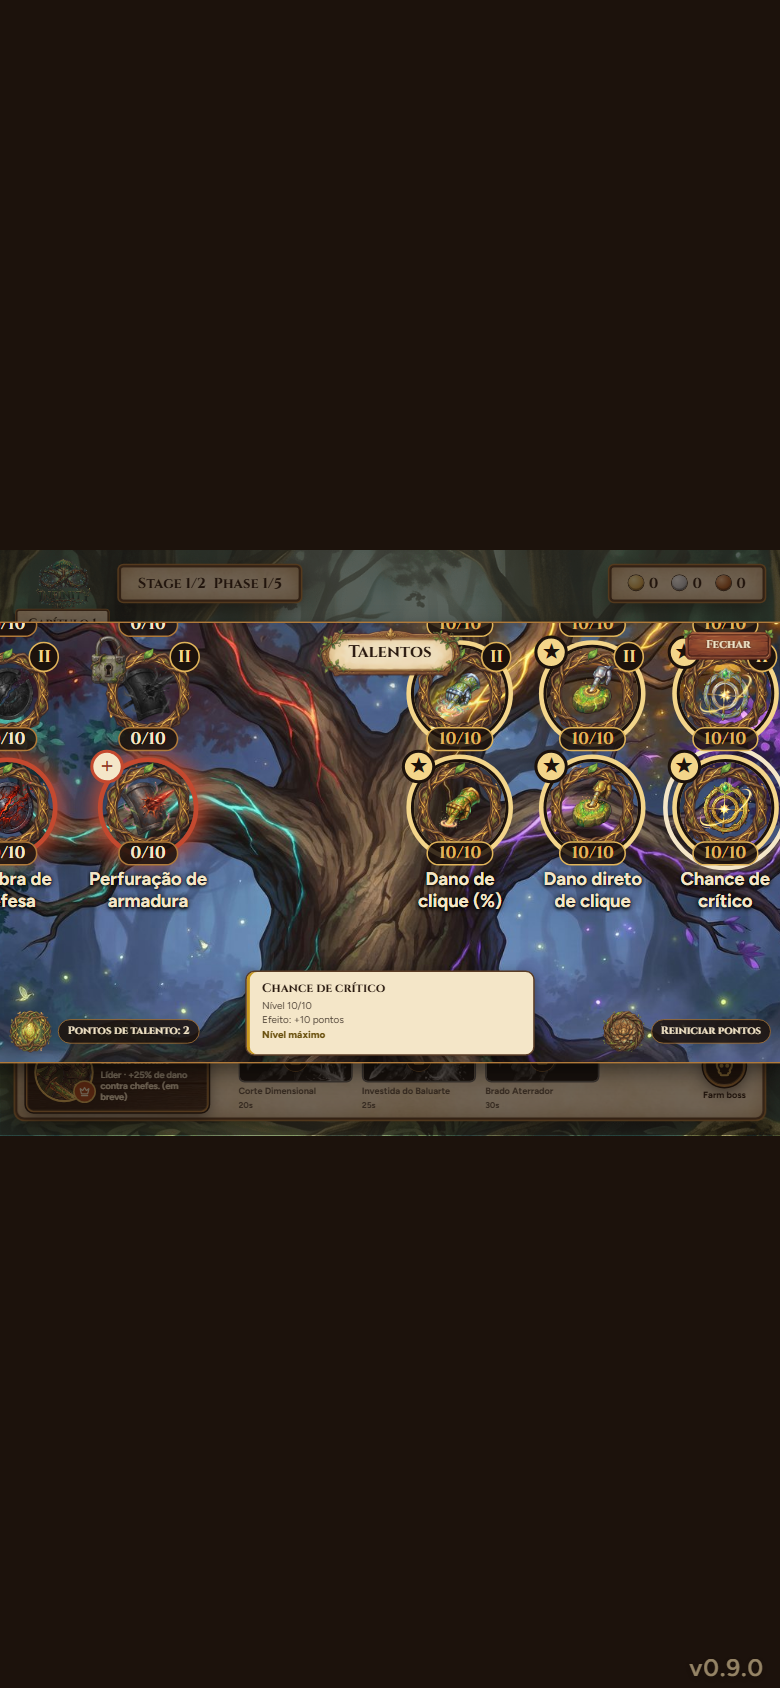
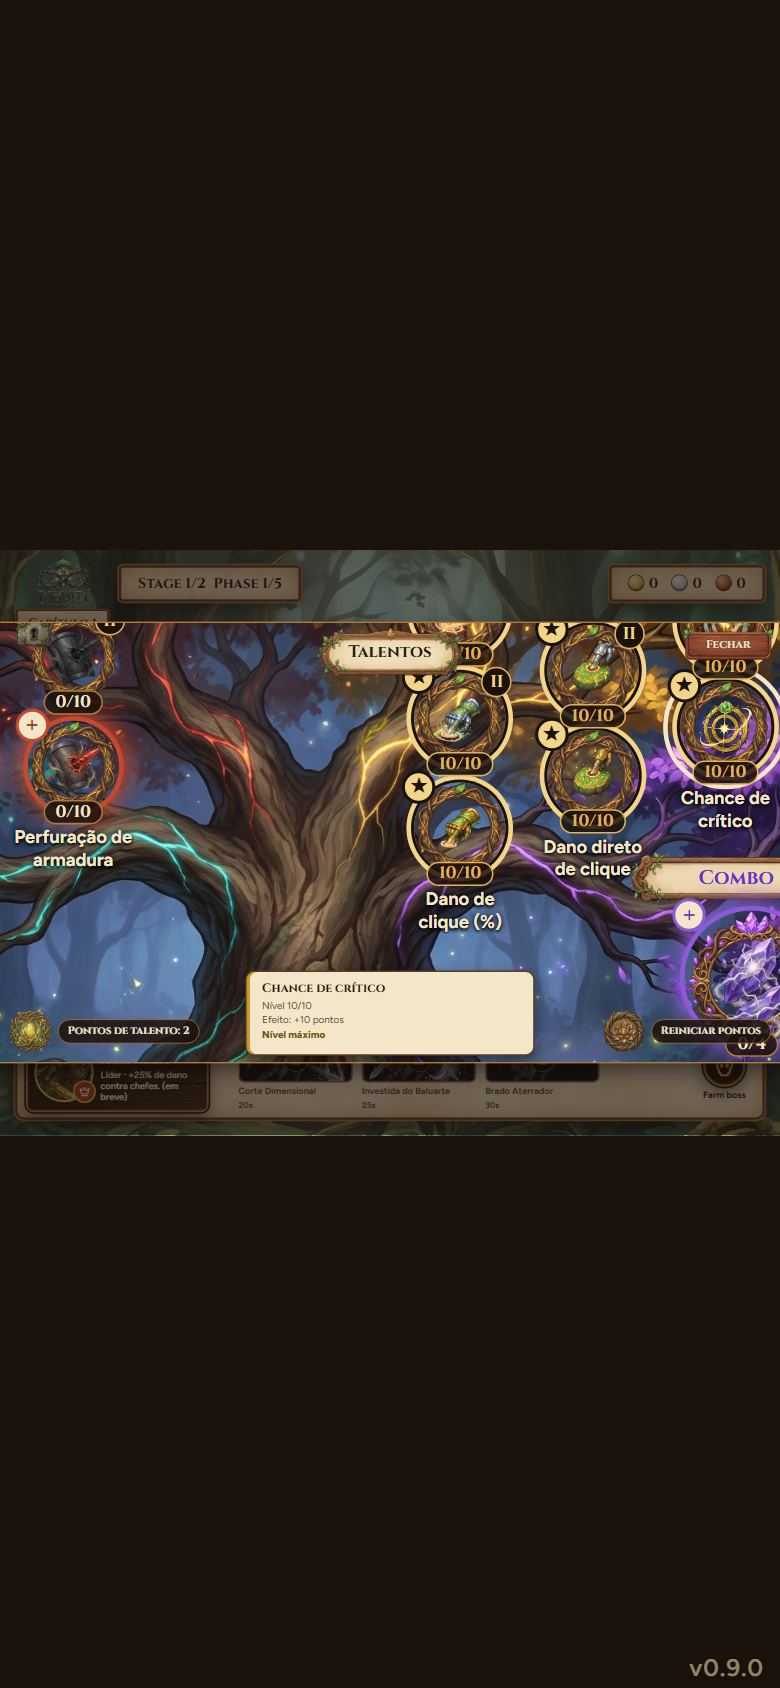
fix(game): calibrate the talent tree layout to the painted background
Fits NODE_POSITIONS, COMBO_FURY, BANNER_POSITIONS and BRANCH_GLOWS to
talent-tree-bg.jpg: TIME columns x 9 and 17.5 (grade 1 at 60), BREAK x 26
and 34.5 (37), POWER x 59.3, 67.8, 76.3, 84.6 (44, 38, 32.5, 32.5), COMBO
x 92 (60), Fúria crescente (78, 61). Banners sit on their foliage and
each lit ellipse covers its own veins. Every grade 1 caption ends above
76 % of the height and no node touches another or the plaque.

Re-pinned: talentTreeLayout.test.js (rows, columns, banners, glows, new
geometry checks), talentsView.test.js (CLICK_DAMAGE, COMBO_FURY, banner,
lit ellipse, three revealTalent values), HeroUi.test.js and the e2e
"phone ... keeps the scroll" test (scrollLeft 200 became 700, where
CLICK_DAMAGE now sits in view), e2e "draws 28 nodes" (CLICK_DAMAGE at
607.2 x 253.4 px). Regenerates the 11-real-art shots. Adds T31.

Changed region(s): [[0.0, 0.3697, 1.0, 0.6469], [0.3077, 0.6161, 0.3385, 0.6469]]

diff --git a/game/src/adapters/phaser/views/talentTreeLayout.test.js b/game/src/adapters/phaser/views/talentTreeLayout.test.js
@@ -1,5 +1,5 @@
 import { describe, expect, it } from 'vitest';
-import { BANNER_POSITIONS, BRANCH_GLOWS, LARGE_NODES, NODE_POSITIONS, TRUNK, VEINS } from './talentTreeLayout';
+import { BANNER_POSITIONS, BRANCH_GLOWS, CAPTION_ROOM, LARGE_NODE_HALF, LARGE_NODES, NODE_HALF, NODE_POSITIONS, TREE_SIZE, TRUNK, VEINS } from './talentTreeLayout';
 
 const GRADED = [
     'MINIBOSS_TIME', 'BOSS_DAMAGE', 'PHYSICAL_BREAK', 'ARMOR_PIERCE', 'CLICK_DAMAGE', 'CRIT_CHANCE', 'CRIT_DAMAGE', 'COMBO', 'CLICK_FLAT_DAMAGE'
@@ -13,40 +13,76 @@ describe('NODE_POSITIONS', () => {
         expect(IDS).toHaveLength(28);
     });
 
-    it('stacks each chain in one column, grade 1 lowest', () => {
+    it('stacks each chain in one column, grade 1 lowest, a grade every 12.5 % of the height (12 % in the last two POWER columns)', () => {
         GRADED.forEach((id) => {
             expect(NODE_POSITIONS[`${id}_G2`].x).toBe(NODE_POSITIONS[id].x);
             expect(NODE_POSITIONS[`${id}_G3`].x).toBe(NODE_POSITIONS[id].x);
         });
 
-        [ 'PHYSICAL_BREAK', 'ARMOR_PIERCE', 'CLICK_DAMAGE', 'CLICK_FLAT_DAMAGE', 'CRIT_CHANCE', 'CRIT_DAMAGE' ].forEach((id) => {
-            expect([ NODE_POSITIONS[id].y, NODE_POSITIONS[`${id}_G2`].y, NODE_POSITIONS[`${id}_G3`].y ]).toEqual([ 46, 33, 20 ]);
-        });
-        [ 'MINIBOSS_TIME', 'BOSS_DAMAGE', 'COMBO' ].forEach((id) => {
-            expect([ NODE_POSITIONS[id].y, NODE_POSITIONS[`${id}_G2`].y, NODE_POSITIONS[`${id}_G3`].y ]).toEqual([ 66, 53, 40 ]);
-        });
+        const rows = (id) => [ NODE_POSITIONS[id].y, NODE_POSITIONS[`${id}_G2`].y, NODE_POSITIONS[`${id}_G3`].y ];
+
+        expect(rows('MINIBOSS_TIME')).toEqual([ 60, 47.5, 35 ]);
+        expect(rows('BOSS_DAMAGE')).toEqual([ 60, 47.5, 35 ]);
+        expect(rows('PHYSICAL_BREAK')).toEqual([ 37, 24.5, 12 ]);
+        expect(rows('ARMOR_PIERCE')).toEqual([ 37, 24.5, 12 ]);
+        expect(rows('CLICK_DAMAGE')).toEqual([ 44, 31.5, 19 ]);
+        expect(rows('CLICK_FLAT_DAMAGE')).toEqual([ 38, 26, 14 ]);
+        expect(rows('CRIT_CHANCE')).toEqual([ 32.5, 20.5, 8.5 ]);
+        expect(rows('CRIT_DAMAGE')).toEqual([ 32.5, 20.5, 8.5 ]);
+        expect(rows('COMBO')).toEqual([ 60, 47.5, 35 ]);
     });
 
-    it('puts Fúria crescente on the COMBO bough at (85, 72) and marks it large', () => {
-        expect(NODE_POSITIONS.COMBO_FURY).toEqual({ x: 85, y: 72 });
+    it('puts every branch over its own painted foliage: columns x 9 and 17.5 (TIME), 26 and 34.5 (BREAK), 59.3 to 84.6 (POWER), 92 (COMBO)', () => {
+        expect([ 'MINIBOSS_TIME', 'BOSS_DAMAGE' ].map((id) => NODE_POSITIONS[id].x)).toEqual([ 9, 17.5 ]);
+        expect([ 'PHYSICAL_BREAK', 'ARMOR_PIERCE' ].map((id) => NODE_POSITIONS[id].x)).toEqual([ 26, 34.5 ]);
+        expect([ 'CLICK_DAMAGE', 'CLICK_FLAT_DAMAGE', 'CRIT_CHANCE', 'CRIT_DAMAGE' ].map((id) => NODE_POSITIONS[id].x)).toEqual([ 59.3, 67.8, 76.3, 84.6 ]);
+        expect(NODE_POSITIONS.COMBO.x).toBe(92);
+    });
+
+    it('puts Fúria crescente on the violet foliage at (78, 61) and marks it large', () => {
+        expect(NODE_POSITIONS.COMBO_FURY).toEqual({ x: 78, y: 61 });
         expect(LARGE_NODES).toEqual([ 'COMBO_FURY' ]);
     });
 
-    it('keeps every node inside the board and out of the detail card', () => {
+    it('keeps every node and its seal inside the board, clear of the plaque and of the detail card', () => {
         nodes.forEach(([ , { x, y } ]) => {
             expect(x).toBeGreaterThanOrEqual(5);
             expect(x).toBeLessThanOrEqual(95);
-            expect(y).toBeGreaterThanOrEqual(18);
-            expect(y).toBeLessThanOrEqual(75);
+            expect(y).toBeGreaterThanOrEqual(8.5);
+            expect(y).toBeLessThanOrEqual(61);
         });
+
+        //  The plaque "Talentos" covers x 41 to 59 % down to y 13 %: a node box (30 px = 2.9 % of the width, 5.2 % of the height) never touches it
+        expect(nodes.filter(([ , { x, y } ]) => x > 41 - 2.9 && x < 59 + 2.9 && y - 5.2 < 13)).toEqual([]);
         expect(nodes.filter(([ , { x, y } ]) => x >= 30 && x <= 70 && y > 50)).toEqual([]);
     });
 
-    it('keeps the nodes of one row at least 8.5 % apart', () => {
+    it('ends every grade 1 caption (three lines, two for Fúria crescente) above the fixed bottom UI, which starts at 76 % of the height', () => {
+        const limit = TREE_SIZE.height * 0.76;
+        const grade1 = nodes.filter(([ id ]) => !/_G[23]$/.test(id) && !LARGE_NODES.includes(id));
+
+        expect(grade1).toHaveLength(9);
+        grade1.forEach(([ , { y } ]) => expect(y / 100 * TREE_SIZE.height + NODE_HALF + CAPTION_ROOM).toBeLessThanOrEqual(limit));
+        expect(NODE_POSITIONS.COMBO_FURY.y / 100 * TREE_SIZE.height + LARGE_NODE_HALF + CAPTION_ROOM - 15).toBeLessThanOrEqual(limit);
+    });
+
+    it('keeps no two nodes touching, boxes drawn at 60 px (88 px for Fúria crescente) on the 1024 x 576 board', () => {
+        const box = ([ id, { x, y } ]) => {
+            const half = LARGE_NODES.includes(id) ? LARGE_NODE_HALF : NODE_HALF;
+
+            return { id, left: x / 100 * TREE_SIZE.width - half, right: x / 100 * TREE_SIZE.width + half, top: y / 100 * TREE_SIZE.height - half, bottom: y / 100 * TREE_SIZE.height + half };
+        };
+        const boxes = nodes.map(box);
+        const touching = boxes.flatMap((a, i) => boxes.slice(i + 1).filter((b) => a.left < b.right && b.left < a.right && a.top < b.bottom && b.top < a.bottom).map((b) => `${a.id} ${b.id}`));
+
+        expect(touching).toEqual([]);
+    });
+
+    it('keeps the nodes of one row at least 8 % apart (a caption is 80 px, 7.8 %)', () => {
         nodes.forEach(([ idA, a ]) => nodes.forEach(([ idB, b ]) => {
             if (idA !== idB && a.y === b.y)
             {
-                expect(Math.abs(a.x - b.x)).toBeGreaterThanOrEqual(8.5);
+                expect(Math.abs(a.x - b.x)).toBeGreaterThanOrEqual(8);
             }
         }));
     });
@@ -56,12 +92,12 @@ describe('banners, glows and veins', () => {
     it('places one banner per branch and one glow per branch', () => {
         expect(Object.keys(BANNER_POSITIONS)).toEqual([ 'TIME', 'BREAK', 'POWER', 'COMBO' ]);
         expect(Object.keys(BRANCH_GLOWS)).toEqual([ 'TIME', 'BREAK', 'POWER', 'COMBO' ]);
-        expect(BANNER_POSITIONS).toEqual({ TIME: { x: 10.5, y: 29 }, BREAK: { x: 30.5, y: 11 }, POWER: { x: 68, y: 11 }, COMBO: { x: 91, y: 29 } });
+        expect(BANNER_POSITIONS).toEqual({ TIME: { x: 13.5, y: 25.5 }, BREAK: { x: 30.5, y: 3.2 }, POWER: { x: 66.4, y: 3.2 }, COMBO: { x: 77, y: 49.7 } });
         expect(BRANCH_GLOWS).toEqual({
-            TIME: { x: 10.5, y: 53, rx: 10, ry: 20 },
-            BREAK: { x: 30.5, y: 33, rx: 10, ry: 20 },
-            POWER: { x: 68, y: 33, rx: 18, ry: 20 },
-            COMBO: { x: 90, y: 58, rx: 9, ry: 24 }
+            TIME: { x: 25, y: 50, rx: 22, ry: 24 },
+            BREAK: { x: 34, y: 22, rx: 18, ry: 25 },
+            POWER: { x: 66, y: 24, rx: 18, ry: 26 },
+            COMBO: { x: 72, y: 53, rx: 23, ry: 24 }
         });
     });
 
@@ -74,6 +110,6 @@ describe('banners, glows and veins', () => {
         const combo = VEINS.at(-1);
 
         expect(combo).toHaveLength(5);
-        expect(combo[1]).toEqual({ x: 85, y: 72 });
+        expect(combo[1]).toEqual({ x: 78, y: 61 });
     });
 });

diff --git a/game/src/adapters/phaser/views/talentsView.test.js b/game/src/adapters/phaser/views/talentsView.test.js
@@ -62,9 +62,9 @@ describe('the nodes', () => {
     it('centres each node on its map coordinates', () => {
         const screen = show();
 
-        expect([ find(screen, 'talent-CLICK_DAMAGE').style.left, find(screen, 'talent-CLICK_DAMAGE').style.top ]).toEqual([ '55%', '46%' ]);
-        expect([ find(screen, 'talent-COMBO_FURY').style.left, find(screen, 'talent-COMBO_FURY').style.top ]).toEqual([ '85%', '72%' ]);
-        expect([ find(screen, 'talent-MINIBOSS_TIME').style.left, find(screen, 'talent-MINIBOSS_TIME').style.top ]).toEqual([ '6%', '66%' ]);
+        expect([ find(screen, 'talent-CLICK_DAMAGE').style.left, find(screen, 'talent-CLICK_DAMAGE').style.top ]).toEqual([ '59.3%', '44%' ]);
+        expect([ find(screen, 'talent-COMBO_FURY').style.left, find(screen, 'talent-COMBO_FURY').style.top ]).toEqual([ '78%', '61%' ]);
+        expect([ find(screen, 'talent-MINIBOSS_TIME').style.left, find(screen, 'talent-MINIBOSS_TIME').style.top ]).toEqual([ '9%', '60%' ]);
     });
 
     it('marks Fúria crescente large and gives it the large frame', () => {
@@ -228,14 +228,14 @@ describe('the board', () => {
         const screen = show();
 
         expect([ ...screen.querySelectorAll('.talent-branch-title') ].map((node) => node.textContent)).toEqual([ 'Caça aos chefes', 'Quebra de defesa', 'Poder do clique', 'Combo' ]);
-        expect([ find(screen, 'talent-branch-POWER').style.left, find(screen, 'talent-branch-POWER').style.top ]).toEqual([ '68%', '11%' ]);
+        expect([ find(screen, 'talent-branch-POWER').style.left, find(screen, 'talent-branch-POWER').style.top ]).toEqual([ '66.4%', '3.2%' ]);
     });
 
     it('gives each lit layer its ellipse and its opacity', () => {
         const screen = show({ MINIBOSS_TIME: 5 });
         const lit = find(screen, 'talent-lit-TIME');
 
-        expect([ '--cx', '--cy', '--rx', '--ry' ].map((name) => lit.style.getPropertyValue(name))).toEqual([ '10.5%', '53%', '10%', '20%' ]);
+        expect([ '--cx', '--cy', '--rx', '--ry' ].map((name) => lit.style.getPropertyValue(name))).toEqual([ '25%', '50%', '22%', '24%' ]);
         expect(lit.style.opacity).toBe('0.27');
         expect(find(screen, 'talent-lit-POWER').style.opacity).toBe('0');
     });
@@ -363,9 +363,9 @@ describe('revealTalent', () => {
 
         revealTalent(screen, 'COMBO_FURY');
 
-        //  Its centre (85 %, 72 %) is at (1740.8, 829.44) of the board: the right edge keeps 88 + 12 px, the bottom of the board is the limit
-        expect(scroll.scrollLeft).toBeCloseTo(1740.8 - (1024 - 88 - 12), 5);
-        expect(scroll.scrollTop).toBe(1152 - 576);
+        //  Its centre (78 %, 61 %) is at (1597.44, 702.72) of the board: the right edge keeps 88 + 12 px, the bottom keeps 88 px of node and 108 px of caption above the card
+        expect(scroll.scrollLeft).toBeCloseTo(1597.44 - (1024 - 88 - 12), 5);
+        expect(scroll.scrollTop).toBeCloseTo(702.72 - (576 - 136 - 88 - 108), 5);
     });
 
     it('scrolls a grade 3 node out from under the plaque and keeps its caption room above the card for a grade 1 node', () => {
@@ -373,25 +373,25 @@ describe('revealTalent', () => {
 
         revealTalent(screen, 'CLICK_DAMAGE_G3');
 
-        //  (55 %, 20 %) is at (1126.4, 230.4): 76 + 60 px under the top edge
+        //  (59.3 %, 19 %) is at (1214.464, 218.88): 76 + 60 px under the top edge
         expect(scroll.scrollLeft).toBe(512);
-        expect(scroll.scrollTop).toBeCloseTo(230.4 - (76 + 60), 5);
+        expect(scroll.scrollTop).toBeCloseTo(218.88 - (76 + 60), 5);
 
         const low = phone(0, 0);
 
         revealTalent(low.screen, 'MINIBOSS_TIME');
 
-        //  (6 %, 66 %) is at (122.88, 760.32): left edge 60 + 12 px, bottom edge 576 - 136 - 60 - 108 px
+        //  (9 %, 60 %) is at (184.32, 691.2): left edge 60 + 12 px, bottom edge 576 - 136 - 60 - 108 px
         expect(low.scroll.scrollLeft).toBe(0);
-        expect(low.scroll.scrollTop).toBeCloseTo(760.32 - (576 - 136 - 60 - 108), 5);
+        expect(low.scroll.scrollTop).toBeCloseTo(691.2 - (576 - 136 - 60 - 108), 5);
     });
 
     it('leaves the scroll alone when the node is already in the free area', () => {
-        const { screen, scroll } = phone(200, 288);
+        const { screen, scroll } = phone(700, 288);
 
         revealTalent(screen, 'CLICK_DAMAGE');
 
-        expect([ scroll.scrollLeft, scroll.scrollTop ]).toEqual([ 200, 288 ]);
+        expect([ scroll.scrollLeft, scroll.scrollTop ]).toEqual([ 700, 288 ]);
     });
 
     it('does nothing on a board that does not scroll, for a talent without a node or without a screen', () => {

diff --git a/game/src/adapters/phaser/views/talentTreeLayout.js b/game/src/adapters/phaser/views/talentTreeLayout.js
@@ -1,36 +1,34 @@
-//  Where the talent tree sits, in percent of the 16:9 board (origin top left). Provisional: recalibrated on talent-tree-bg.jpg once it exists,
-//  like mapLayout.js (spec talent-tree-rework D14). Four boughs: far left TIME, upper left BREAK, upper right POWER, far right COMBO.
+//  Where the talent tree sits, in percent of the 16:9 board (origin top left). Calibrated on talent-tree-bg.jpg, like mapLayout.js (spec talent-tree-rework D14, task T31). Four boughs: far left TIME, upper left BREAK, upper right POWER, far right COMBO.
 export const TREE_SIZE = { width: 1024, height: 576 };
 
 export const TREE_IMAGE = 'assets/talent-tree-bg.jpg';
 
-//  Grade 1 lowest: the upper boughs (BREAK, POWER) and the far boughs (TIME, COMBO) have their own rows
-const UPPER_ROWS = { 1: 46, 2: 33, 3: 20 };
-const FAR_ROWS = { 1: 66, 2: 53, 3: 40 };
+//  Grade 1 lowest, one grade every 12.5 % of the height (12 % in the last POWER column, which has less crown above it): `rise` gives the three rows of a column from its grade 1 row
+const rise = (grade1, step = 12.5) => ({ 1: grade1, 2: grade1 - step, 3: grade1 - 2 * step });
 const CHAINS = [
-    [ 'MINIBOSS_TIME', 6, FAR_ROWS ], [ 'BOSS_DAMAGE', 15, FAR_ROWS ],
-    [ 'PHYSICAL_BREAK', 26, UPPER_ROWS ], [ 'ARMOR_PIERCE', 35, UPPER_ROWS ],
-    [ 'CLICK_DAMAGE', 55, UPPER_ROWS ], [ 'CLICK_FLAT_DAMAGE', 63.5, UPPER_ROWS ], [ 'CRIT_CHANCE', 72, UPPER_ROWS ], [ 'CRIT_DAMAGE', 80.5, UPPER_ROWS ],
-    [ 'COMBO', 94, FAR_ROWS ]
+    [ 'MINIBOSS_TIME', 9, rise(60) ], [ 'BOSS_DAMAGE', 17.5, rise(60) ],
+    [ 'PHYSICAL_BREAK', 26, rise(37) ], [ 'ARMOR_PIERCE', 34.5, rise(37) ],
+    [ 'CLICK_DAMAGE', 59.3, rise(44) ], [ 'CLICK_FLAT_DAMAGE', 67.8, rise(38, 12) ], [ 'CRIT_CHANCE', 76.3, rise(32.5, 12) ], [ 'CRIT_DAMAGE', 84.6, rise(32.5, 12) ],
+    [ 'COMBO', 92, rise(60) ]
 ];
 
 //  The 27 graded talents and Fúria crescente on the COMBO bough
 export const NODE_POSITIONS = Object.freeze({
     ...Object.fromEntries(CHAINS.flatMap(([ id, x, rows ]) =>
         [ 1, 2, 3 ].map((grade) => [ grade === 1 ? id : `${id}_G${grade}`, { x, y: rows[grade] } ]))),
-    COMBO_FURY: { x: 85, y: 72 }
+    COMBO_FURY: { x: 78, y: 61 }
 });
 
 export const LARGE_NODES = Object.freeze([ 'COMBO_FURY' ]);
 
-export const BANNER_POSITIONS = Object.freeze({ TIME: { x: 10.5, y: 29 }, BREAK: { x: 30.5, y: 11 }, POWER: { x: 68, y: 11 }, COMBO: { x: 91, y: 29 } });
+export const BANNER_POSITIONS = Object.freeze({ TIME: { x: 13.5, y: 25.5 }, BREAK: { x: 30.5, y: 3.2 }, POWER: { x: 66.4, y: 3.2 }, COMBO: { x: 77, y: 49.7 } });
 
 //  The ellipse of each branch's lit veins: centre (x, y) and radii (rx, ry), in percent
 export const BRANCH_GLOWS = Object.freeze({
-    TIME: { x: 10.5, y: 53, rx: 10, ry: 20 },
-    BREAK: { x: 30.5, y: 33, rx: 10, ry: 20 },
-    POWER: { x: 68, y: 33, rx: 18, ry: 20 },
-    COMBO: { x: 90, y: 58, rx: 9, ry: 24 }
+    TIME: { x: 25, y: 50, rx: 22, ry: 24 },
+    BREAK: { x: 34, y: 22, rx: 18, ry: 25 },
+    POWER: { x: 66, y: 24, rx: 18, ry: 26 },
+    COMBO: { x: 72, y: 53, rx: 23, ry: 24 }
 });
 
 export const TRUNK = Object.freeze({ base: { x: 50, y: 100 }, fork: { x: 50, y: 58 } });

diff --git a/game/e2e/talentTreeRework.spec.js b/game/e2e/talentTreeRework.spec.js
@@ -125,7 +125,7 @@ test.describe('Talentos tree: nodes', () => {
         expect((await size(page.getByTestId('talent-CLICK_DAMAGE')))[0]).toBe(60);
         expect((await size(page.getByTestId('talent-COMBO_FURY')))[0]).toBe(88);
 
-        //  CLICK_DAMAGE sits at 55 % x 1024 and 46 % x 576 of the board
+        //  CLICK_DAMAGE sits at 59.3 % x 1024 and 44 % x 576 of the board
         const centre = await page.getByTestId('talent-CLICK_DAMAGE').evaluate((node) =>
         {
             const tree = document.querySelector('[data-testid="talent-tree"]').getBoundingClientRect();
@@ -134,8 +134,8 @@ test.describe('Talentos tree: nodes', () => {
             return [ (box.x + box.width / 2 - tree.x) * (1024 / tree.width), (box.y + box.height / 2 - tree.y) * (576 / tree.height) ];
         });
 
-        expect(Math.abs(centre[0] - 563)).toBeLessThanOrEqual(1);
-        expect(Math.abs(centre[1] - 265)).toBeLessThanOrEqual(1);
+        expect(Math.abs(centre[0] - 607.2)).toBeLessThanOrEqual(1);
+        expect(Math.abs(centre[1] - 253.4)).toBeLessThanOrEqual(1);
     });
 
     test('captions grade 1 nodes and badges grades 2 and 3', async ({ page }) => {
@@ -511,11 +511,11 @@ test.describe('Talentos tree: phones and desktops', () => {
         expect(await read('scrollTop')).toBe(288);
 
         //  A node in view is selected: the scroll the player chose stays
-        await scroll.evaluate((node) => { node.scrollLeft = 200; });
+        await scroll.evaluate((node) => { node.scrollLeft = 700; });
         await select(page, 'CLICK_DAMAGE');
 
         await expect(page.getByTestId('talent-detail-name')).toHaveText('Dano de clique (%)');
-        expect(await read('scrollLeft')).toBe(200);
+        expect(await read('scrollLeft')).toBe(700);
         expect(await read('scrollTop')).toBe(288);
         expect((await page.getByTestId('talent-points').evaluate((node) => node.offsetLeft))).toBe(12);
         expect((await size(page.getByTestId('talent-detail')))[0]).toBe(380);

diff --git a/game/src/adapters/phaser/HeroUi.test.js b/game/src/adapters/phaser/HeroUi.test.js
@@ -1500,10 +1500,10 @@ describe('HeroUi Talentos', () => {
             await open(ctx, 'talents');
             expect([ ctx.testid('talent-tree-scroll').scrollLeft, ctx.testid('talent-tree-scroll').scrollTop ]).toEqual([ 512, 288 ]);
 
-            ctx.testid('talent-tree-scroll').scrollLeft = 200;
+            ctx.testid('talent-tree-scroll').scrollLeft = 700;
             pick(ctx, 'CLICK_DAMAGE');
 
-            expect(ctx.testid('talent-tree-scroll').scrollLeft).toBe(200);
+            expect(ctx.testid('talent-tree-scroll').scrollLeft).toBe(700);
         }
         finally
         {

diff --git a/.specs/features/talent-tree-rework/tasks.md b/.specs/features/talent-tree-rework/tasks.md
@@ -123,6 +123,12 @@ T23
 T25 → T26 → T27 → T28 → T29 → T30
 ```
 
+### Phase 6d: art calibration (game-dev)
+
+```
+T31
+```
+
 ---
 
 ## Task Breakdown
@@ -1890,6 +1896,32 @@ Findings of `.specs/features/talent-tree-rework/ui-review.html` (verdict MUDANÇ
 
 ---
 
+### Phase 6d: art calibration
+
+The painted board (`talent-tree-bg.jpg` and `talent-tree-bg-lit.jpg`, 2048 x 1152, added in de8550d) exists, so the provisional coordinates of the layout are fitted to it.
+
+#### T31: calibrate the talent tree layout to the painted background [x]
+
+**Owner**: game-dev
+**Goal**: Every branch's nodes, captions and banner sit over its own painted foliage and branch, and nothing overlaps the plaque, the Fechar button, another node or caption, or the fixed bottom UI (TTR-20; spec D14).
+**Where**: `game/src/adapters/phaser/views/talentTreeLayout.js` (`CHAINS` rows, `COMBO_FURY`, `BANNER_POSITIONS`, `BRANCH_GLOWS`)
+**Also changes**: `game/src/adapters/phaser/views/talentTreeLayout.test.js`, `talentsView.test.js`, `game/src/adapters/phaser/HeroUi.test.js` and `game/e2e/talentTreeRework.spec.js` (re-pin the coordinates), the `11-real-art-*` shots in `.specs/features/talent-tree-rework/ui-review/`
+**Read first**: `game/src/adapters/phaser/views/talentTreeLayout.js`, `game/ui-review/talentTreeRework.shots.js` (`11 real art`), `game/public/assets/talent-tree-bg.jpg` and `talent-tree-bg-lit.jpg`
+**Depends on**: None (the art and T30 are done)
+**Requirement**: TTR-20
+
+**What**: fit the layout to the painting, checked on the `11-real-art` desktop and phone shots. Teal (TIME) over the left foliage, red (BREAK) under the red crown, gold (POWER) over the gold crown, violet (COMBO) at the right edge with Fúria crescente on the violet foliage; grade 1 lowest in each column; every node and its caption ends above 76 % of the height; the banners sit on their foliage; each lit ellipse covers its branch's veins and foliage with as little overlap as possible. The phone keeps the reveal logic (`FIXED_TOP`, `FIXED_BOTTOM`) unchanged.
+
+**Tests**: unit: layout rows, columns, banners and glows re-pinned; new checks that no two node boxes touch, no node touches the plaque, every grade 1 caption ends above 76 %; `talentsView.test.js` and `HeroUi.test.js` positions and reveal values re-pinned; e2e: the `CLICK_DAMAGE` coordinate and the phone scroll re-pinned
+**Gate**: `cd game && npm test`, `cd game && npm run build`, `cd game && npx playwright test e2e/talentTreeRework.spec.js`
+**Done when**:
+
+- [x] The `11-real-art` desktop and phone shots show each branch over its own foliage with no overlap, and the three gates are green.
+
+**Commit**: `fix(game): calibrate the talent tree layout to the painted background`
+
+---
+
 ## Validation Tables
 
 ### Task Granularity Check
@@ -1926,6 +1958,7 @@ Findings of `.specs/features/talent-tree-rework/ui-review.html` (verdict MUDANÇ
 | T28 | 1 function + 1 call | ✅ Granular |
 | T29 | 1 stylesheet rule | ✅ Granular |
 | T30 | 1 stylesheet rule | ✅ Granular |
+| T31 | 1 layout file (+ its re-pinned tests) | ⚠ Cohesive (the coordinates are one table, the tests pin it) |
 
 ### Diagram-Definition Cross-Check
 
@@ -1961,6 +1994,7 @@ Findings of `.specs/features/talent-tree-rework/ui-review.html` (verdict MUDANÇ
 | T28 | T27 | T27 → T28 | ✅ Match |
 | T29 | T28 | T28 → T29 | ✅ Match |
 | T30 | T29 | T29 → T30 | ✅ Match |
+| T31 | None | (none) | ✅ Match |
 
 ### Test Co-location Validation
 
@@ -1996,3 +2030,4 @@ Findings of `.specs/features/talent-tree-rework/ui-review.html` (verdict MUDANÇ
 | T29 | Stylesheet | e2e | e2e | ✅ OK |
 | T30 | Stylesheet | e2e | e2e | ✅ OK |
 | T28 | Game view and scene | unit (jsdom) + e2e | unit + e2e | ✅ OK |
+| T31 | Game view layout | unit (jsdom) + e2e | unit + e2e | ✅ OK |
